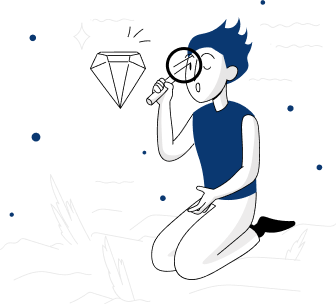
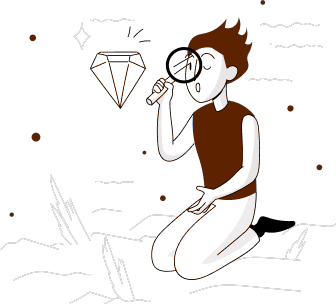
Mejorar estilo

diff --git a/encriptadorTexto.html b/encriptadorTexto.html
@@ -1,0 +1,102 @@
+<!-- https://developer.mozilla.org/es/docs/Web/JavaScript/Reference/Global_Objects/String/replace#:~:text=El%20método%20replace()%20devuelve,será%20llamada%20para%20cada%20coincidencia. -->
+<!-- esto podria ser un traductor binario? -->
+<!DOCTYPE html>
+<html lang="en">
+<head>
+    <meta charset="UTF-8">
+    <meta http-equiv="X-UA-Compatible" content="IE=edge">
+    <meta name="viewport" content="width=device-width, initial-scale=1.0">
+    <title>Encriptador</title>
+    <script src="script.js"></script>
+    <link rel="stylesheet" href="encriptador.css">
+    
+    <link rel="shortcut icon" href="img/icons8-bookmark-documents-16.png">
+    <link rel="preconnect" href="https://fonts.googleapis.com">
+    <link rel="preconnect" href="https://fonts.gstatic.com" crossorigin>
+    <link href="https://fonts.googleapis.com/css2?family=Inconsolata:wght@200&family=Open+Sans:wght@300;400;700&family=Poppins:wght@300&family=Raleway:wght@300&display=swap" rel="stylesheet">
+</head>
+
+<body>
+    <header>
+        <img class="logo" src="img/logo.png" alt="baner">
+    </header>
+    <div class="grid">
+        <div class="container">
+            <!-- <h1>Encriptador de Texto</h1> -->
+            <!-- Agregar linea que separa titulo debajo -->
+            <textarea type="text" name="texto" id="texto" placeholder="Ingrese el texto aqui"></textarea>
+            <br>
+            <p>&#10003 Solo letras minusculas y sin acentos</p>
+            <button class="botonEncriptar" onclick="encriptar()">Encriptar</button>
+            <button class="botonDesencriptar"onclick="desencriptar()">Desencriptar</button>
+        
+        </div>
+        <div class="resultado">
+             <textarea id="textarea"></textarea>
+             <img class="imgSinResultado" src="img/Muñeco.png" alt="No se ha encontrado texto">
+             <h3>Ningún mensaje fue encontrado</h3>
+             <p>Ingresa el texto que desees encriptar o desencriptar.</p>
+            <button id="copyBlock">Copiar</button> <span id="copyAnswer"></span>
+        </div>
+    </div>
+</body>
+  <script language="JavaScript">
+    // Establecemos las variables
+    var textarea = document.getElementById("textarea");
+    var answer = document.getElementById("copyAnswer");
+    var copy   = document.getElementById("copyBlock");
+    copy.addEventListener('click', function(e) {
+       // Sleccionando el texto
+       textarea.select(); 
+       var successful = document.execCommand('copy');
+    });
+  </script>
+</html>
+
+<!-- https://trello.com/b/WTdfcewC/encriptador-de-texto-alura-challenges-one -->
+<!-- https://www.aluracursos.com/challenges/challenge-one-logica/sprint01-construye-un-encriptador-texto-con-javascript -->
+
+<!-- Construye un encriptador de texto con Javascript -->
+
+<!-- Description
+¡Bienvenidos y Bienvenidas a nuestro primer desafío!
+
+Durante estas cuatro semanas, vamos a trabajar en una aplicación que encripta textos, así podrás intercambiar mensajes secretos con otras personas que sepan el secreto de la encriptación utilizada.
+
+Las "llaves" de encriptación que utilizaremos son las siguientes:
+
+La letra "e" es convertida para "enter"
+La letra "i" es convertida para "imes"
+La letra "a" es convertida para "ai"
+La letra "o" es convertida para "ober"
+La letra "u" es convertida para "ufat"
+
+Requisitos:
+- Debe funcionar solo con letras minúsculas
+- No deben ser utilizados letras con acentos ni caracteres especiales
+- Debe ser posible convertir una palabra para la versión encriptada también devolver una palabra encriptada para su versión original.
+
+Por ejemplo:
+"gato" => "gaitober"
+gaitober" => "gato"
+
+La página debe tener campos para
+inserción del texto que será encriptado o desencriptado, y el usuario debe poder escoger entre as dos opciones.
+El resultado debe ser mostrado en la pantalla.
+Extras:
+- Un botón que copie el texto encriptado/desencriptado para la sección de transferencia, o sea que tenga la misma funcionalidad del ctrl+C o de la opción "copiar" del menú de las aplicaciones.
+
+Tenemos un periodo de tiempo de cuatro semanas para desarrollar el proyecto y vamos a trabajar con el sistema ágil de desarrollo, utilizando el Trello de la siguiente forma:
+
+La columna Listos para iniciar presenta las tarjetas con elementos que aun no fueron desarrollados.
+En la columna En Desarrollo estarán los elementos que estés desarrollando en el momento. Al iniciar una tarea, podrás mover la tarjeta que contiene dicha tarea para esta columna.
+En la columna Pausado estarán los elementos que comenzaste a desarrollar, pero necesitaste parar por algún motivo.
+Por fin, en la columna Concluido estarán los elementos ya concluidos.
+El Trello es una herramienta de uso individual para que puedas controlar el progreso de tus actividades, pero no será evaluada.
+
+Buen proyecto! -->
+<!-- 
+Publica tu página en GitHub Pages!
+Utiliza lo que aprendiste sobre Git e GitHub y publica tu página web utilizando el servicio GitHub Pages. De esta forma, podrás compartir el resultado de tu proyecto!
+
+Artículo para ayudarte en esta misión: Paso a Paso para activar tu proyecto en GitHub Pages. | Alura Cursos Online -->

diff --git a/encriptador.css b/encriptador.css
@@ -1,6 +1,6 @@
 /* Estilo Similar a un Periodico */
 body {
-    background-color: rgb(243,245,252);
+    background-color: #FDEEDC;
     font-family: 'Inconsolata', monospace;
     font-family: 'Open Sans', sans-serif;
     font-family: 'Poppins', sans-serif;
@@ -37,27 +37,29 @@ textarea{
     padding: 20px;
     border-radius: 10px;
     border: none;
+    outline:none;
+    resize: none;
 }
 
-#textarea:active{
-    border-color: #ffffff;
-}
 
 #texto {
     width: 520px;
     height: 270px;
     padding: 20px;
     border-radius: 5px;
+    outline:none;
     border: none;
-    background-color: rgb(243,245,252);
+    background-color: #FDEEDC;
     resize: none;
     cursor: pointer;
+    color: #E38B29;
+    font-size: 20px;
+    font-weight: 600;
 }
 
-#texto:active {
-    border-color: rgb(243,245,252);
+::placeholder{
+    color: #E38B29;
 }
-
 
 .grid{
     display: grid;
@@ -80,19 +82,27 @@ textarea{
 }
 .botonEncriptar {
     border: none;
-    background-color: rgb(10,56,113);
+    background-color: #E38B29;
     color: rgb(228, 234, 253);
 }
 
 .botonDesencriptar{
-    color: rgb(37, 92, 255);
-    border-color:rgb(37, 92, 255);
+    color: #E38B29;
     margin-left: 10px;
-    border: 10px ;
+    border: #E38B29 solid 1px;
 }
 
 #copyBlock{
+    color: #E38B29;
     position: absolute;
     top: 370px;
     right: 20px;
+    border: #E38B29 solid 1px;
+}
+
+.imgSinResultado{
+    width: 40%;
+    position: absolute;
+    top: 45px;
+    right: 80px;
 }
